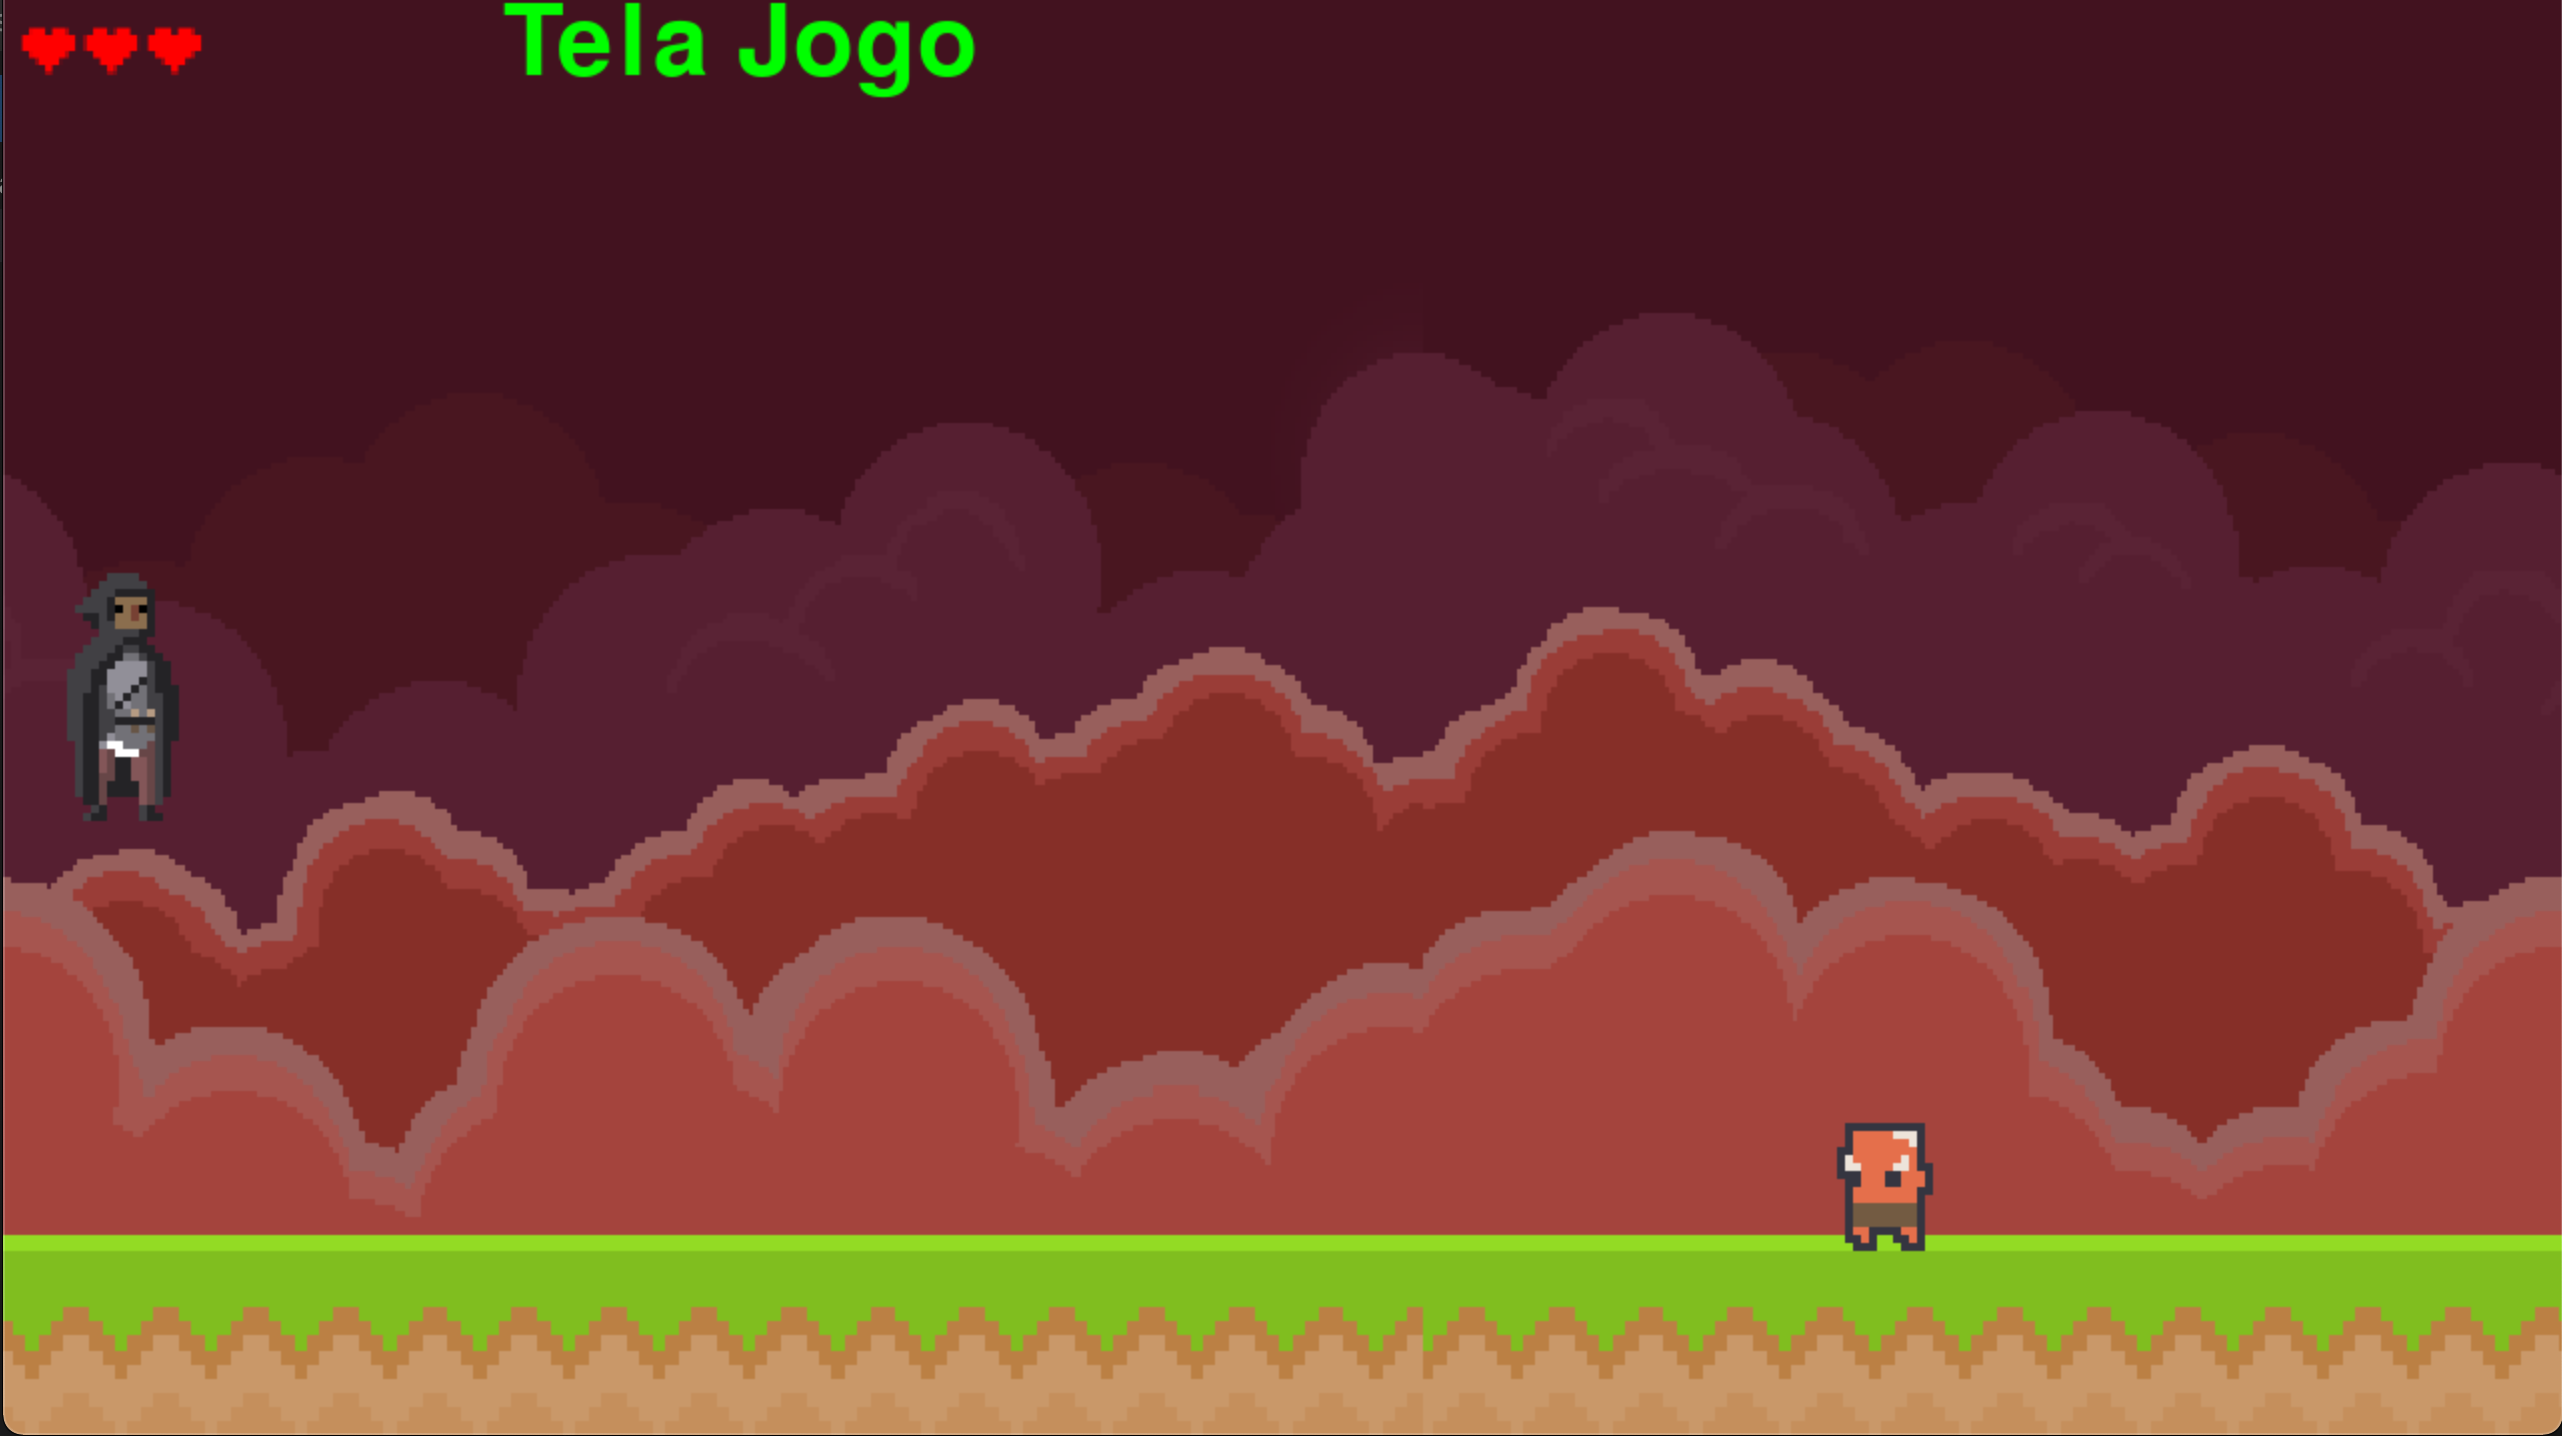
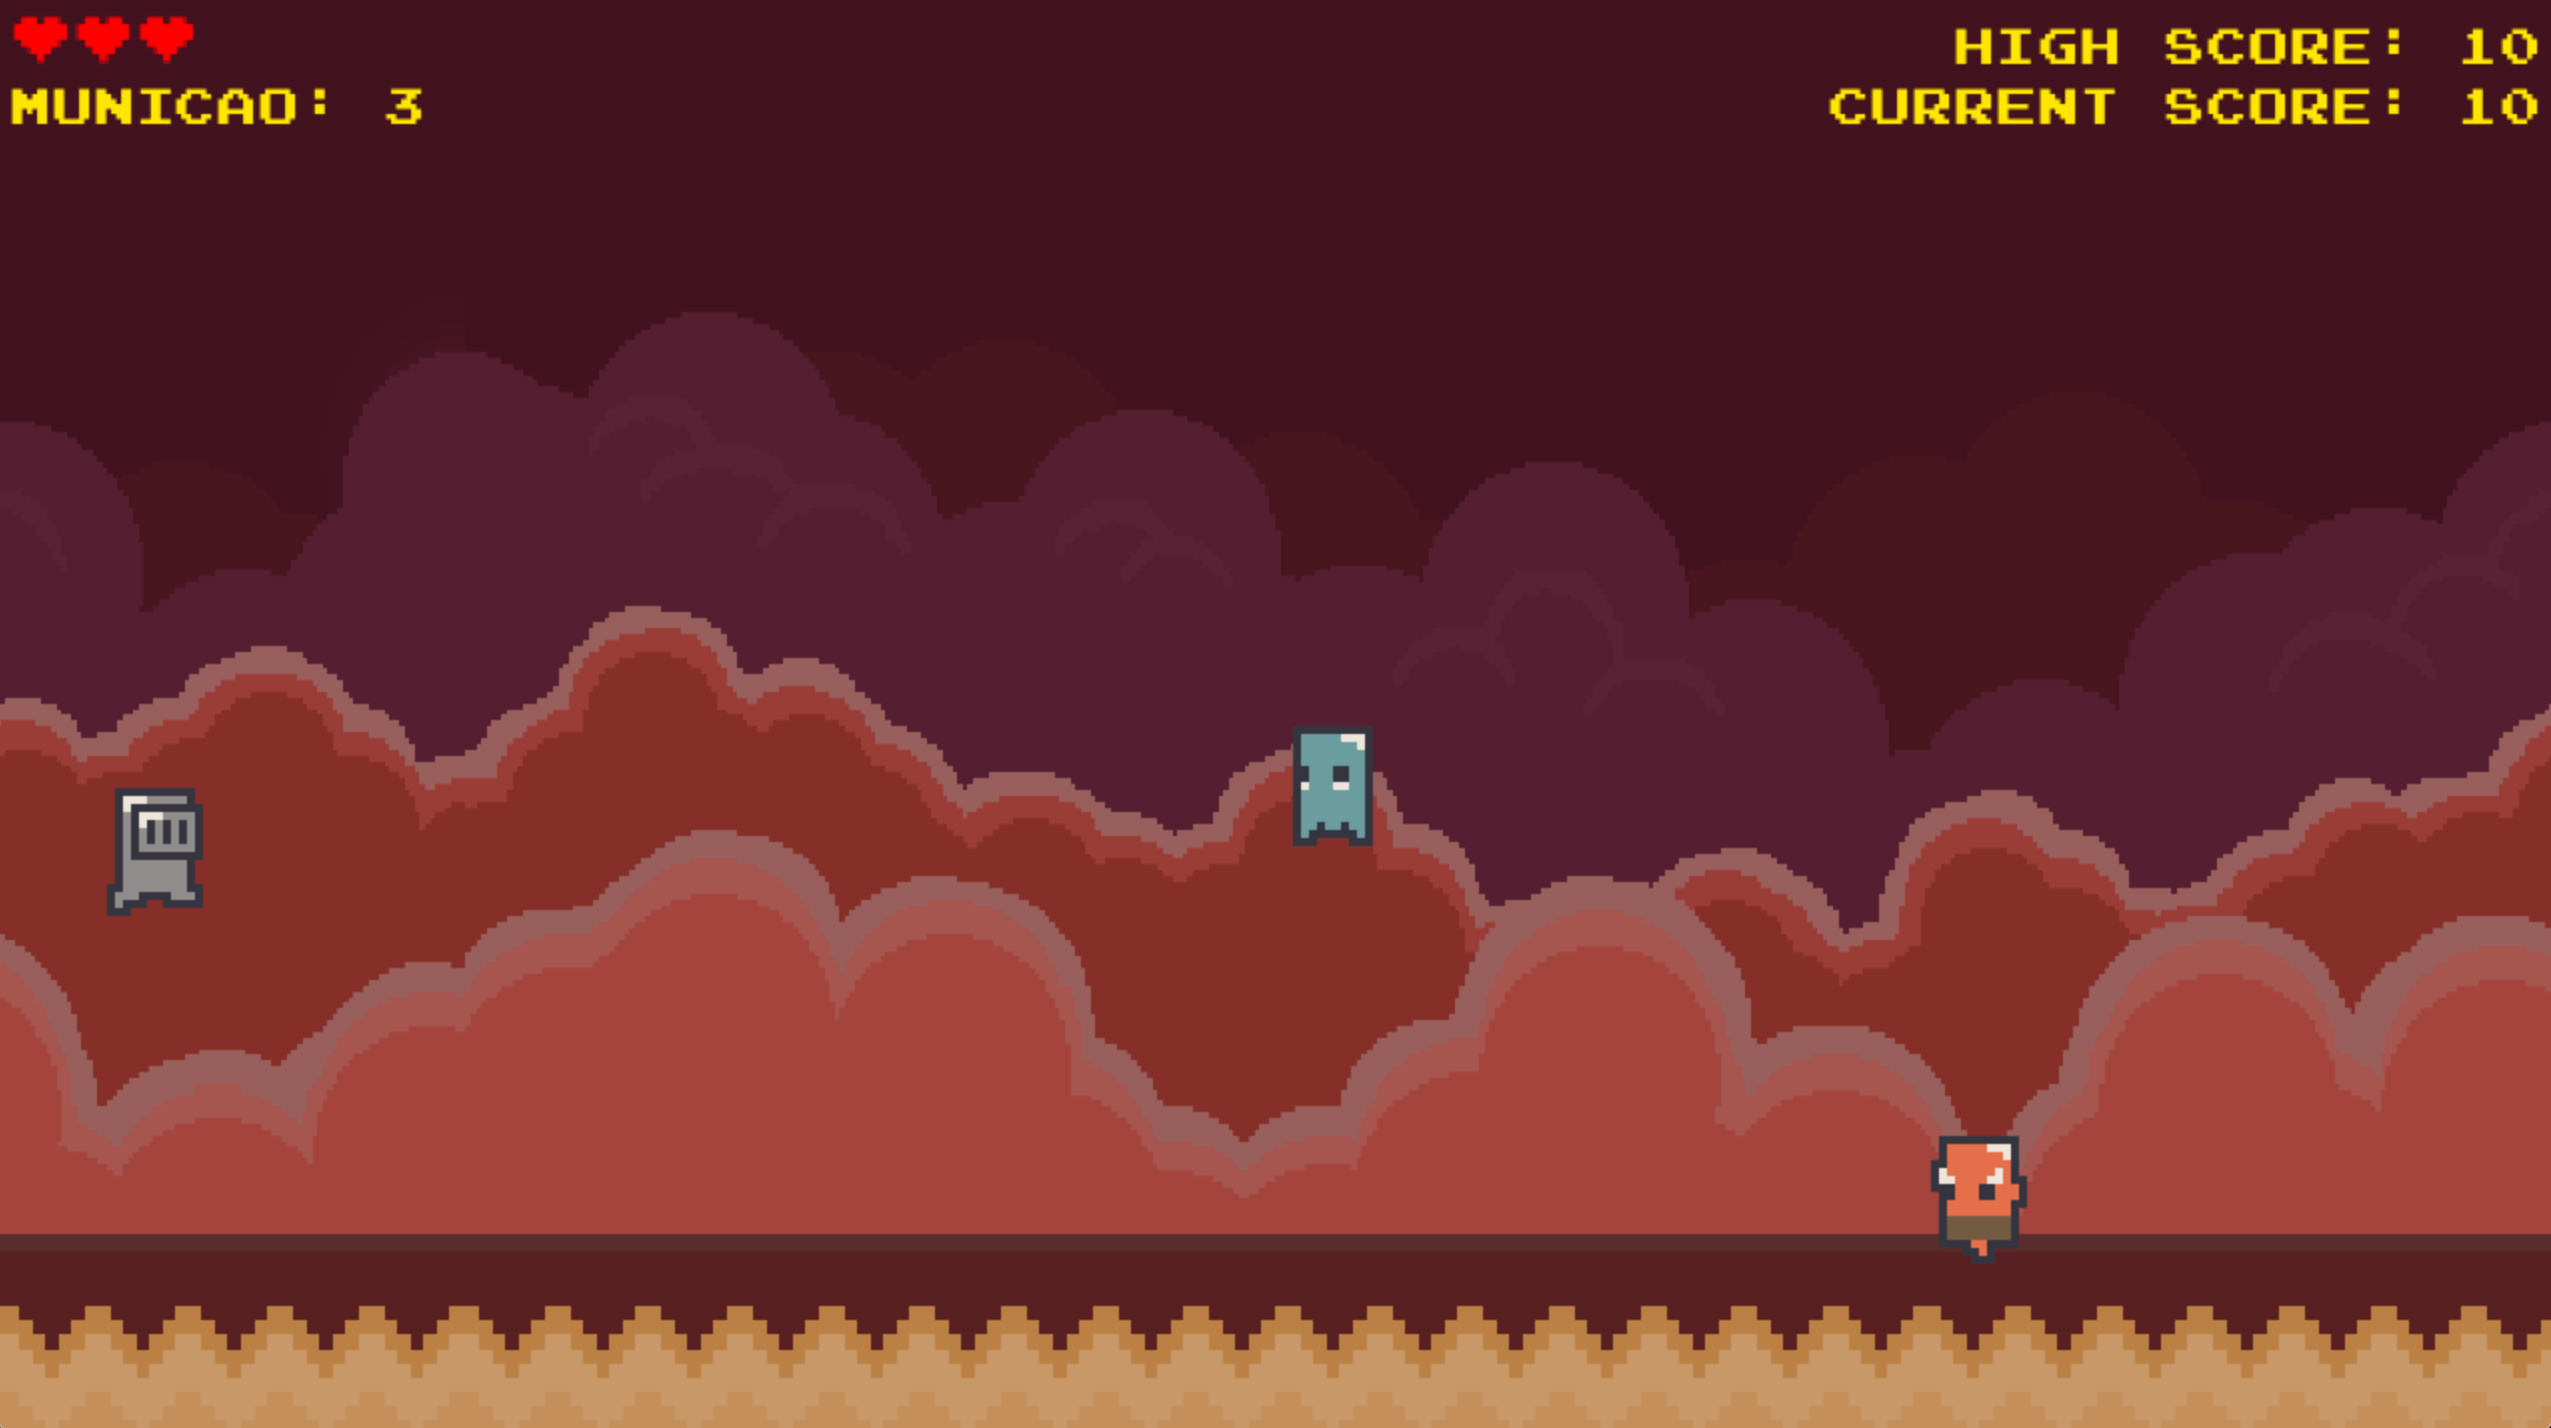
site feito ate gameplay

diff --git a/docs/site/teste.html b/docs/site/teste.html
@@ -1,0 +1,41 @@
+<!DOCTYPE html>
+<html>
+    <head>
+        <title>Knight Runner</title>
+        <link rel="stylesheet" href="teste.css">
+        <link rel="preconnect" href="https://fonts.googleapis.com">
+        <link rel="preconnect" href="https://fonts.gstatic.com" crossorigin>
+        <link href="https://fonts.googleapis.com/css2?family=Acme&family=Montserrat:wght@500&display=swap" rel="stylesheet">
+    </head>
+    <body>
+        <section class='header'>
+            <div class="logo">
+                <img src="images/logo.png" alt="Logo">
+                <ul class="botoes-header">
+                    <li><a href="#gameplay">Gameplay</a></li>
+                    <li><a href="#instalacao">Instalação</a></li>
+                    <li><a href="#logs">Logs</a></li>
+                    <li><a href="#avaliacao">Avaliação</a></li>
+                </ul>
+            </div>
+        </section>
+        <section class="gameplay" id="gameplay">
+            <h1>Gameplay</h1>
+            <p>Knight Runner é um jogo em 2D em que um cavaleiro corre enquanto desvia de obstáculos
+                e enfrenta inimigos. O objetivo do jogo é sobreviver o máximo de tempo e matar o maior número 
+                de inimigos possíveis para obter pontos. Enquanto pula e atira para vencer desafios, o jogador
+                deve levar em consideração as 3 vidas que possui. Se o cavaleiro perder todas as vidas, o jogo acaba.
+            </p>
+            <div class="gameplay-imagens">
+                <img src="images/foto_pulo.png">
+                <div class="gameplay-imagem-texto"> Pule para desviar</div>
+                <img src="images/foto_tiro.png">
+                <div class="gameplay-imagem-texto"> Atire para derrotar inimigos</div>
+            </div>
+            <div class="gameplay-video">
+                <iframe height="720" width="1280" src="https://www.youtube.com/embed/RosqH6KLZEM" frameBorder="0">
+                </iframe>
+            </div>
+        </section>
+    </body>
+</html>

diff --git a/docs/site/teste.css b/docs/site/teste.css
@@ -1,0 +1,100 @@
+* {
+    margin: 0;
+    padding: 0;
+    font-family: 'Montserrat', sans-serif;
+}
+
+html {
+    scroll-behavior: smooth;
+  }
+
+.header {
+    min-height: 100vh;
+    width: 100%;
+    background-image: linear-gradient(rgba(192, 80, 80, 0.7), rgba(29, 26, 27, 0.7)), url(images/site_background.png);
+    background-position: center;
+    background-size: cover;
+    position: relative;
+}
+
+.logo {
+    position: absolute;
+    top: 50%;
+    left: 50%;
+    transform: translate(-50%, -50%);
+    text-align: center;
+    color: white;
+}
+
+.logo img{
+    margin-bottom: 20px;
+}
+
+.botoes-header{
+    display: flex;
+    justify-content: space-between;
+    list-style: none;
+    align-items: center;
+}
+
+.botoes-header a{
+    text-decoration: none;
+    width: 150px;
+    display: inline-block;
+    margin: 0px 10px;
+    padding: 12px;
+    color: yellow;
+    border: 0.5px solid yellow;
+}
+
+.botoes-header a:hover{
+    background-color: yellow;
+    color: black;
+}
+
+.gameplay {
+    width: 100%;
+    background-color: rgb(192, 80, 80);
+    padding: 100px 0px 100px;
+}
+
+.gameplay h1 {
+    color:white;
+    text-align: center;
+    padding: 0px 0px 50px;
+    font-size: 60px;
+}
+
+.gameplay p {
+    color: white;
+    text-align: center;
+    font-size: 25px;
+    padding:0px 150px 70px;
+}
+
+.gameplay-imagens {
+    display: block;
+    margin: auto;
+    padding: 0px 150px;
+}
+
+.gameplay img {
+    width: 100%;
+    height: auto;
+    margin-bottom: 20px;
+    border-radius: 10px;
+}
+
+.gameplay-imagem-texto {
+    text-align: center;
+    font-size: 30px;
+    margin-bottom: 70px;
+    color: white;
+}
+
+.gameplay-video{
+    display: flex;
+    justify-content: center;
+    width: 100%;
+    margin-bottom: 0px;
+}

diff --git a/docs/index.html b/docs/index.html
@@ -48,7 +48,7 @@
             </div>
             <div class="descricao-video">
                 <section id="gameplay">
-                    <iframe height="350" width="600" src="https://www.youtube.com/embed/9em32dDnTck">
+                    <iframe height="350" width="600" src="https://www.youtube.com/embed/RosqH6KLZEM">
                 </section>
                 </iframe>
             </div>

diff --git a/docs/site/site.css b/docs/site/site.css
@@ -3,12 +3,14 @@ html {
   }
 
 .header {
+    display: block;
     text-align: center;
     margin: 10px;
     background-color: black;
 }
 
 .logo{
+    display: block;
     text-align: center;
     background-color: black;
 }

diff --git a/jogo/funcoes/classes.py b/jogo/funcoes/classes.py
@@ -8,7 +8,6 @@ class TelaInicial():
         self.dicionario = assets
         self.tela = assets['tela']
         self.fonte = pygame.font.Font(assets['fonte'], 50)
-        self.texto = self.fonte.render('Tela inicial', True, (0, 255, 0))
 
         self.fonte2 = assets['fonte2']
         self.texto2 = self.fonte2.render('Pressione "ESPAÇO" para continuar', True, (255, 230, 0))
@@ -30,8 +29,6 @@ class TelaInicial():
 
         self.tela.blit(self.fundo, (0, 0))
         self.tela.blit(self.chao, (0, 620))
-
-        self.tela.blit(self.texto, (300, 0))
 
         self.tela.blit(self.logo, (234, 250))
 
@@ -66,7 +63,6 @@ class TelaInstrucoes():
         self.dicionario = assets
         self.tela = assets['tela']
         self.fonte = pygame.font.Font(assets['fonte'], 50)
-        self.texto = self.fonte.render('Tela instrucoes', True, (0, 255, 0))
         self.fonte2 = assets['fonte2']
         self.fonte2_grande = assets['fonte2_grande']
 
@@ -103,8 +99,6 @@ class TelaInstrucoes():
         self.tela.blit(self.fundo, (0, 0))
         self.tela.blit(self.chao, (0, 620))
 
-        self.tela.blit(self.texto, (300, 0))
-
         self.tela.blit(self.texto2, (self.texto2_pos_x, 100))
         self.tela.blit(self.texto3, (self.texto3_pos_x, 220))
         self.tela.blit(self.texto4, (self.texto4_pos_x, 290))
@@ -140,7 +134,6 @@ class TelaJogo():
     def __init__(self, assets):
 
         self.fonte = pygame.font.Font(assets['fonte'], 50)
-        self.texto = self.fonte.render('Tela Jogo', True, (0, 255, 0))
         self.dicionario = assets
         #Adicionei essas imagens so para testar e dps mudar
         self.fundo = assets['fundo']
@@ -198,17 +191,7 @@ class TelaJogo():
         self.scroll_chao -= 5
         if abs(self.scroll_chao) > self.chao.get_width():
             self.scroll_chao = 0
- 
-        self.tela.blit(self.texto, (250, 0))
 
-        #Vidas
-        self.tela.blit(self.texto_vidas, (7, 0))
-
-        #Score
-        self.tela.blit(self.texto_pontuacao, (1273 - self.texto_pontuacao.get_width(), 40))
-
-        #High score
-        self.tela.blit(self.texto_highscore, (1273 - self.texto_highscore.get_width(), 10))
 
         for inimigo in self.lista_de_inimigos:
             inimigo.update()
@@ -224,7 +207,6 @@ class TelaJogo():
 
         self.Clock.tick(60) #https://www.pygame.org/docs/ref/time.html#pygame.time.Clock.tick
 
-        self.tela.blit(self.texto_municao, (7, 40))
 
         pygame.display.update()
 
@@ -462,7 +444,6 @@ class TelaGameOver():
         self.dicionario = assets
         self.tela = assets['tela']
         self.fonte = pygame.font.Font(assets['fonte'], 50)
-        self.texto = self.fonte.render('Tela game over', True, (0, 255, 0))
         self.fonte2 = assets['fonte2']
         self.fonte2_grande = assets['fonte2_grande']
         self.fonte2_xgrande = assets['fonte2_xgrande']
@@ -490,8 +471,6 @@ class TelaGameOver():
 
     def desenha(self):
         self.tela.fill((0, 0, 0))
-
-        self.tela.blit(self.texto, (300, 0))
 
         self.tela.blit(self.texto2, (self.texto2_pos_x, 250))
         self.tela.blit(self.texto4, (self.texto4_pos_x, 350))
